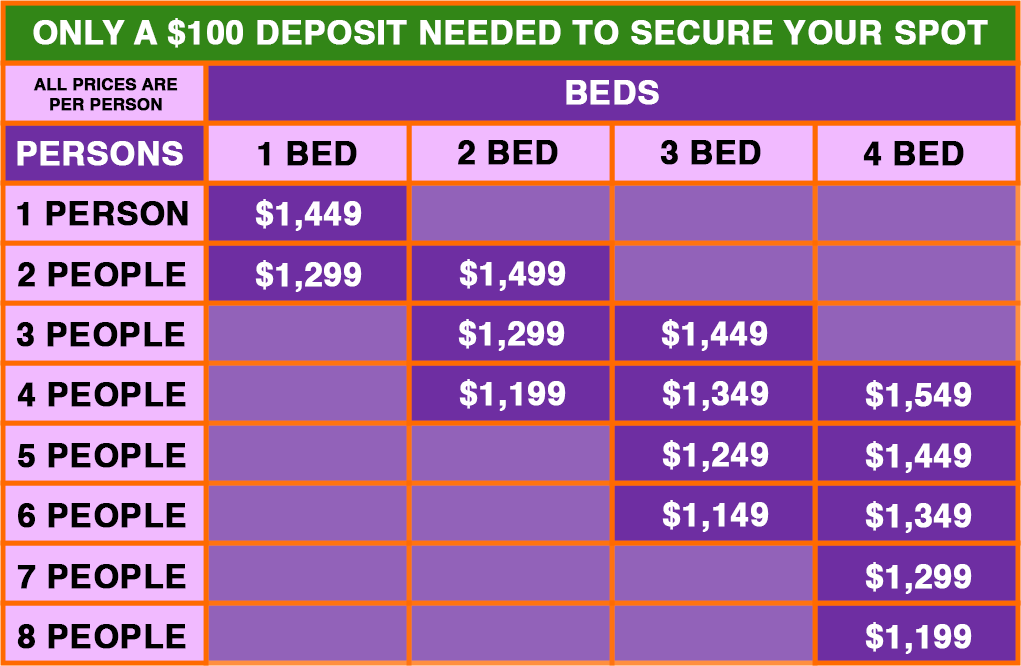
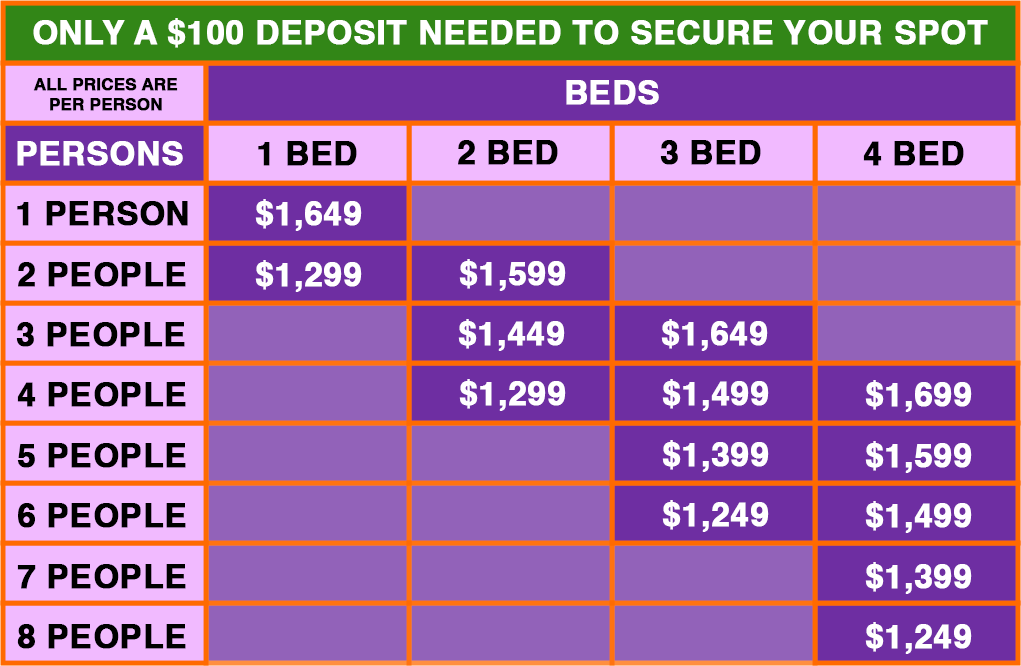
Add Villa H and mark sold out villas

diff --git a/villa-h.html b/villa-h.html
@@ -1,0 +1,103 @@
+<!doctype html>
+<html lang="en">
+<head>
+  <meta charset="utf-8">
+  <meta name="viewport" content="width=device-width,initial-scale=1">
+  <meta name="description" content="MORE TO LIFE luxury villa experiences in Bali with all-inclusive accommodation, personal drivers, and entry to daytime activities and party events.">
+  <meta property="og:type" content="website">
+  <meta property="og:site_name" content="MORE TO LIFE">
+  <meta property="og:title" content="VILLA H - MORE TO LIFE">
+  <meta property="og:description" content="MORE TO LIFE luxury villa experiences in Bali with all-inclusive accommodation, personal drivers, and entry to daytime activities and party events.">
+  <meta property="og:url" content="https://more2life.com.au/villa-h.html">
+  <meta property="og:image" content="https://more2life.com.au/images/search-preview.jpg">
+  <meta property="og:image:secure_url" content="https://more2life.com.au/images/search-preview.jpg">
+  <meta property="og:image:width" content="3600">
+  <meta property="og:image:height" content="2400">
+  <meta property="og:image:alt" content="MORE TO LIFE event preview">
+  <meta name="twitter:card" content="summary_large_image">
+  <meta name="twitter:title" content="VILLA H - MORE TO LIFE">
+  <meta name="twitter:description" content="MORE TO LIFE luxury villa experiences in Bali with all-inclusive accommodation, personal drivers, and entry to daytime activities and party events.">
+  <meta name="twitter:image" content="https://more2life.com.au/images/search-preview.jpg">
+  <title>VILLA H - MORE TO LIFE</title>
+  <link rel="stylesheet" href="css/styles.css?v=20260305">
+  <link rel="icon" type="image/png" href="images/MTL-BW-2.png">
+</head>
+<body>
+  <header class="site-header home-site-header">
+    <div class="wrap header-inner home-header-inner has-mobile-menu">
+      <nav class="nav home-nav" id="home-nav-menu" aria-label="Primary">
+        <a href="index.html">HOME</a>
+        <a href="index.html#villas" class="active">PACKAGES</a>
+        <a href="index.html#flights">FLIGHTS</a>
+      </nav>
+      <button class="mobile-nav-toggle" type="button" aria-expanded="false" aria-controls="home-nav-menu" aria-label="Toggle navigation menu">
+        <span></span>
+        <span></span>
+        <span></span>
+      </button>
+      <a href="index.html" class="logo-link home-logo-link">
+        <img src="images/more2life-logo-date.png" alt="MORE TO LIFE 2026" class="logo home-logo-date">
+      </a>
+      <div class="header-actions">
+        <a class="btn-book-now header-book-now" href="https://moretolife.wetravel.com/trips/more-to-life-2026-bali-group-2-more-to-life-3994628236" target="_blank" rel="noreferrer">BOOK NOW</a>
+      </div>
+    </div>
+  </header>
+
+  <section class="villa-hero" style="background-image: url('images/airbnbs/villa-h-1.jpg'); background-size:cover; background-position:center;">
+    <div class="villa-hero-overlay">
+      <div class="villa-hero-left">
+        <h1>VILLA H</h1>
+        <div class="villa-meta">
+          <span class="meta-item"><img src="images/bedroom.svg" alt="Bedrooms" class="meta-icon">5 BR</span>
+          <span class="meta-item"><img src="images/bathroom.svg" alt="Bathrooms" class="meta-icon">5 BA</span>
+        </div>
+      </div>
+      <div class="villa-hero-center">
+        <p class="hero-price"><span class="hero-price-label">FROM</span><span class="hero-price-value">$1,299 pp</span></p>
+      </div>
+      <div class="villa-hero-right">
+        <a class="btn-book-now" href="https://moretolife.wetravel.com/trips/more-to-life-2026-bali-group-2-more-to-life-3994628236" target="_blank" rel="noreferrer">BOOK NOW</a>
+      </div>
+    </div>
+  </section>
+
+  <section class="villa-detail">
+    <div class="wrap">
+      <a href="index.html" class="back-link">&larr; BACK TO HOME</a>
+      <div class="villa-text-area">
+        OUR ALL-INCLUSIVE PACKAGES COME WITH ACCOMMODATION, A PERSONAL DRIVER, AND ENTRY TO ALL DAYTIME ACTIVITIES AND PARTY EVENTS.
+      </div>
+      <div class="villa-gallery">
+        <div class="gallery-item"><img src="images/airbnbs/villa-h-1.jpg" alt="Villa H image 1"></div>
+        <div class="gallery-item"><img src="images/airbnbs/villa-h-2.jpg" alt="Villa H image 2"></div>
+        <div class="gallery-item"><img src="images/airbnbs/villa-h-3.jpg" alt="Villa H image 3"></div>
+        <div class="gallery-item"><img src="images/airbnbs/villa-h-4.jpg" alt="Villa H image 4"></div>
+        <div class="gallery-item"><img src="images/airbnbs/villa-h-5.jpg" alt="Villa H image 5"></div>
+        <div class="gallery-item"><img src="images/airbnbs/villa-h-6.jpg" alt="Villa H image 6"></div>
+        <div class="gallery-item"><img src="images/airbnbs/villa-h-7.jpg" alt="Villa H image 7"></div>
+        <div class="gallery-item"><img src="images/airbnbs/villa-h-8.jpg" alt="Villa H image 8"></div>
+        <div class="gallery-item"><img src="images/airbnbs/villa-h-9.jpg" alt="Villa H image 9"></div>
+        <div class="gallery-item"><img src="images/airbnbs/villa-h-10.jpg" alt="Villa H image 10"></div>
+      </div>
+      <div class="villa-book-row">
+        <a class="btn-book-now" href="https://moretolife.wetravel.com/trips/more-to-life-2026-bali-group-2-more-to-life-3994628236" target="_blank" rel="noreferrer">BOOK NOW</a>
+      </div>
+    </div>
+  </section>
+
+  <footer class="site-footer">
+    <div class="wrap"><p>BECAUSE THERE'S ALWAYS MORE TO LIFE.<br> &copy; MORE TO LIFE 2026.</p></div>
+  </footer>
+
+  <div id="lightbox" class="lightbox hidden">
+    <button id="lb-close" class="lb-btn">&times;</button>
+    <button id="lb-prev" class="lb-btn lb-nav">&#9664;</button>
+    <img id="lb-img" src="" alt="">
+    <button id="lb-next" class="lb-btn lb-nav">&#9654;</button>
+  </div>
+
+  <script src="js/index.js"></script>
+  <script src="js/lightbox.js"></script>
+</body>
+</html>
